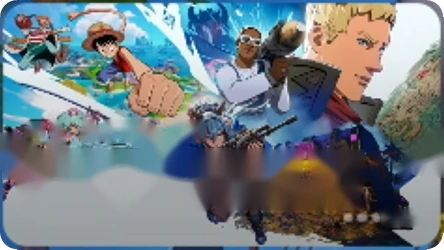
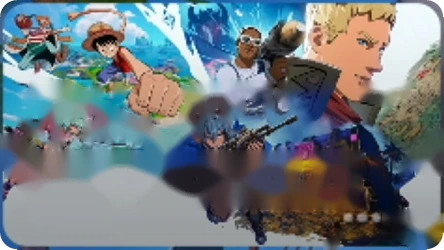
fortnite-app: arreglar play nativo sobre el video, título que se salía y texto de noticias
Claude-Session: https://claude.ai/code/session_0185b3H2m5DGGxwbrDCBuwc9

diff --git a/fortnite-app/index.html b/fortnite-app/index.html
@@ -7,13 +7,14 @@
 :root{--yellow:#f5f21a;--ink:#14141c;--f-display:"Archivo Black",Impact,"Arial Black",sans-serif;--f-ui:"Barlow Condensed","Arial Narrow",sans-serif}
 *{box-sizing:border-box;margin:0}
 html,body{height:100%;overflow:hidden;background:#0a1a33;touch-action:manipulation;-webkit-tap-highlight-color:transparent}
-#bg{position:fixed;inset:0;width:100vw;height:100vh;object-fit:cover;z-index:0}
-#bgfx{position:fixed;inset:0;z-index:0;background:center/cover no-repeat}
-body[data-screen="lobby"] #bgfx{display:none}
+#bgfx{position:fixed;inset:0;z-index:0;background:#0a1a33 center/cover no-repeat}
+body[data-screen="lobby"] #bgfx{background-image:url(assets/lobby_poster.jpg)}
+#bg{position:fixed;inset:0;width:100vw;height:100vh;object-fit:cover;z-index:1;background:transparent;pointer-events:none}
+#bg::-webkit-media-controls,#bg::-webkit-media-controls-panel,#bg::-webkit-media-controls-start-playback-button,#bg::-webkit-media-controls-overlay-play-button{display:none!important;-webkit-appearance:none;opacity:0}
 body:not([data-screen="lobby"]) #bg{visibility:hidden}
 body[data-screen="treasure"] #bgfx{background-image:url(assets/bg_treasure.webp)}
 body[data-screen="shop"] #bgfx{background-image:url(assets/bg_shop.webp)}
-#stage{position:absolute;left:50%;top:50%;width:2000px;height:921px;transform-origin:center;overflow:hidden;z-index:1;user-select:none;color:#fff}
+#stage{position:absolute;left:50%;top:50%;width:2000px;height:921px;transform-origin:center;overflow:hidden;z-index:2;user-select:none;color:#fff}
 .screen{position:absolute;inset:0}.screen[hidden]{display:none}
 .px{position:absolute;display:block;pointer-events:none;-webkit-user-drag:none}
 .px[hidden]{display:none}
@@ -24,8 +25,8 @@ body[data-screen="shop"] #bgfx{background-image:url(assets/bg_shop.webp)}
 .hv,.navlabel,.title,.ink,.bt,.wl,.wn,.wt,.live,.endt,.clubn,.clubs,.tab,.stitle,.lv,.lv2,.newstext,.ttl{font-family:var(--f-display);font-weight:900}
 .nm,.st,.sel,.esrb1,.esrb2,.desc,.cap,.it{font-family:var(--f-ui);font-weight:700}
 .hv,.navlabel,.nm,.st,.it{text-shadow:0 3px 4px rgba(0,0,0,.45)}
-.title{text-align:center;text-transform:uppercase;white-space:normal;color:#fff;letter-spacing:-.5px}
-.sel{color:#2f2410;white-space:normal;line-height:33px}
+.title{text-align:center;text-transform:uppercase;white-space:pre;color:#fff;letter-spacing:-.5px}
+.sel{color:#2f2410;white-space:pre;line-height:33px}
 .ink{color:var(--ink);font-weight:900}
 .it{font-style:italic;font-weight:700}
 .esrb1{font-weight:600}.esrb2{font-weight:600;white-space:normal;line-height:28px;opacity:.92}
@@ -42,11 +43,11 @@ body[data-screen="shop"] #bgfx{background-image:url(assets/bg_shop.webp)}
 .navlabel{color:#fff}.hv{color:#fff}
 .ul{position:absolute;left:164px;top:181px;width:150px;height:4px;background:#ffeab0;border-radius:2px}
 .tab,.t.tab{color:#fff;text-shadow:0 2px 3px rgba(80,40,0,.4)}
-.ttl{font-style:italic;color:#fff;white-space:normal;text-shadow:0 3px 4px rgba(90,45,0,.45)}
+.ttl{font-style:italic;color:#fff;white-space:pre;text-shadow:0 3px 4px rgba(90,45,0,.45)}
 .desc{color:#fff;font-weight:700;text-shadow:0 2px 3px rgba(90,45,0,.5)}
 .wl{color:rgba(255,240,215,.9);text-shadow:0 1px 2px rgba(80,30,0,.5)}.wn{color:rgba(255,240,215,.95);text-shadow:0 2px 3px rgba(80,30,0,.5)}
 .wt{color:#fff;font-style:italic}.live{color:#06180a;font-style:italic}
-.endt{color:#ffe9a8;text-align:center;white-space:normal;text-shadow:0 2px 3px #000}
+.endt{color:#ffe9a8;text-align:center;white-space:pre;text-shadow:0 2px 3px #000}
 .stitle{font-style:italic;color:#fff;text-shadow:0 3px 4px rgba(0,0,40,.35)}
 .clubn{color:#fff}.clubs{color:#fff}.cap{color:#fff;text-shadow:0 2px 3px #000}
 .chatbox{position:absolute;left:1380px;top:520px;width:480px;background:rgba(20,18,26,.82);border-radius:12px;padding:14px 16px;display:flex;flex-direction:column;gap:6px;z-index:20;font:600 26px var(--f-ui);color:#fff}
@@ -57,8 +58,8 @@ body[data-screen="shop"] #bgfx{background-image:url(assets/bg_shop.webp)}
 @keyframes up{from{transform:translate(-50%,0)}to{transform:translate(-50%,-110px);opacity:0}}
 .bubble{transform:translate(-50%,0)}
 </style></head><body data-screen="lobby">
-<video id="bg" autoplay muted loop playsinline src="assets/lobby.mp4"></video>
 <div id="bgfx"></div>
+<video id="bg" autoplay muted loop playsinline webkit-playsinline disablepictureinpicture disableremoteplayback x-webkit-airplay="deny" preload="auto" poster="assets/lobby_poster.jpg" src="assets/lobby.mp4"></video>
 <div id="stage">
 <div id="nav" style="position:absolute;inset:0;z-index:10"><img class="px ic" src="assets/ic_search.webp" alt="" draggable="false" style="left:92.05px;top:34.87px;width:54.39px;height:54.39px;" ><img class="px ic" src="assets/ic_heart.webp" alt="" draggable="false" style="left:190.38px;top:36.96px;width:64.85px;height:55.09px;" ><img class="px ic tab" src="assets/ic_play.webp" alt="" draggable="false" style="left:298.47px;top:32.78px;width:57.88px;height:57.88px;" data-go="lobby" id="ic-lobby"><img class="px ic tab" src="assets/ic_chest.webp" alt="" draggable="false" style="left:397.49px;top:32.78px;width:64.16px;height:57.88px;" data-go="treasure" id="ic-treasure"><img class="px ic tab" src="assets/ic_cart.webp" alt="" draggable="false" style="left:509.07px;top:41.14px;width:50.21px;height:46.03px;" data-go="shop" id="ic-shop"><img class="px ic" src="assets/ic_shirt.webp" alt="" draggable="false" style="left:613.67px;top:34.87px;width:50.91px;height:54.39px;" ><img class="px ic" src="assets/ic_star.webp" alt="" draggable="false" style="left:713.39px;top:29.29px;width:67.64px;height:57.88px;" ><img class="px ic" src="assets/ic_excl.webp" alt="" draggable="false" style="left:820.08px;top:33.47px;width:48.81px;height:57.18px;" ><img class="px ic" src="assets/ic_trophy.webp" alt="" draggable="false" style="left:920.50px;top:36.96px;width:57.18px;height:50.91px;" ><img class="px ic" src="assets/ic_shield.webp" alt="" draggable="false" style="left:1027.89px;top:29.29px;width:62.76px;height:61.37px;" ><img class="px ic" src="assets/ic_vbucks.webp" alt="" draggable="false" style="left:1126.92px;top:33.47px;width:57.88px;height:57.18px;" ><img class="px tile" src="assets/tile_lobby.webp" alt="" draggable="false" style="left:276.85px;top:25.10px;width:99.72px;height:74.62px;" data-tile="lobby" hidden><img class="px tile" src="assets/tile_treasure.webp" alt="" draggable="false" style="left:377.96px;top:24.41px;width:106.00px;height:74.62px;" data-tile="treasure" hidden><img class="px tile" src="assets/tile_shop.webp" alt="" draggable="false" style="left:485.36px;top:25.10px;width:99.72px;height:74.62px;" data-tile="shop" hidden><div class="t navlabel" data-t="nav.labels.lobby" data-lab="lobby" style="left:326.7px;top:121px;font-size:25px;transform:translate(-50%,-50%)" hidden></div><div class="t navlabel" data-t="nav.labels.treasure" data-lab="treasure" style="left:431.0px;top:121px;font-size:25px;transform:translate(-50%,-50%)" hidden></div><div class="t navlabel" data-t="nav.labels.shop" data-lab="shop" style="left:535.2px;top:121px;font-size:25px;transform:translate(-50%,-50%)" hidden></div><div class="t hv" data-t="nav.vbucks" style="left:1188px;top:60px;font-size:31px;transform:translateY(-50%);"></div><img class="px " src="assets/avatar.webp" alt="" draggable="false" style="left:1776.15px;top:25.80px;width:94.14px;height:94.14px;" ></div>
 <div id="screens" style="position:absolute;inset:0;z-index:2">
@@ -67,27 +68,27 @@ body[data-screen="shop"] #bgfx{background-image:url(assets/bg_shop.webp)}
  <img id="character" alt="" hidden>
  <div class="newsbox"><img class="px news" src="assets/news_arsenal.webp" alt="" draggable="false" style="left:62.06px;top:145.75px;width:309.62px;height:174.34px;" data-i="0"><img class="px news" src="assets/news_pase.webp" alt="" draggable="false" style="left:62.06px;top:145.75px;width:309.62px;height:174.34px;" data-i="1"><img class="px news" src="assets/news_recibe.webp" alt="" draggable="false" style="left:62.06px;top:145.75px;width:309.62px;height:174.34px;" data-i="2"><img class="px news" src="assets/news_cazatesoros.webp" alt="" draggable="false" style="left:62.06px;top:145.75px;width:309.62px;height:174.34px;" data-i="3">
   <div class="t newstext" id="newstext" style="left:78px;top:246px;width:250px;font-size:22px"></div><div class="dots" id="dots"></div></div>
- <img class="px " src="assets/hex.webp" alt="" draggable="false" style="left:867.50px;top:126.22px;width:41.14px;height:42.54px;" ><div class="t it" data-t="player.partyIndex" style="left:872px;top:160px;font-size:20px;transform:translateY(-50%);"></div><div class="t nm" data-t="player.name" style="left:914px;top:146px;font-size:40px;transform:translateY(-50%);"></div><i class="phone"></i><div class="t st" data-t="player.status" style="left:913px;top:197px;font-size:28px;transform:translateY(-50%);opacity:.95"></div>
+ <img class="px " src="assets/hex.webp" alt="" draggable="false" style="left:867.50px;top:126.22px;width:41.14px;height:42.54px;" ><div class="t it" data-t="player.partyIndex" style="left:872px;top:160px;font-size:20px;transform:translateY(-50%);"></div><div class="t nm" data-t="player.name" data-maxw="185" style="left:914px;top:146px;font-size:40px;transform:translateY(-50%);width:185px;"></div><i class="phone"></i><div class="t st" data-t="player.status" style="left:913px;top:197px;font-size:28px;transform:translateY(-50%);opacity:.95"></div>
  <img class="px" src="assets/slot.webp" alt="" style="left:765.0px;top:506.3px;width:48.1px;height:47.4px"><img class="px" src="assets/slot.webp" alt="" style="left:1157.9px;top:505.3px;width:48.1px;height:47.4px"><img class="px" src="assets/slot.webp" alt="" style="left:1338.9px;top:497.3px;width:48.1px;height:47.4px">
- <img class="px " src="assets/mode_panel.webp" alt="" draggable="false" style="left:59.97px;top:410.74px;width:308.23px;height:370.99px;" ><div class="t title" data-t="mode.title" style="left:214px;top:472px;font-size:64px;transform:translate(-50%,-50%);width:250px;line-height:59px;"></div>
- <img class="px " src="assets/mode_select.webp" alt="" draggable="false" style="left:76.01px;top:592.75px;width:277.55px;height:85.08px;" ><div class="t sel" data-t="mode.selector" style="left:123px;top:633px;font-size:29px;transform:translateY(-50%);width:230px;"></div>
- <img class="px btn" src="assets/mode_play.webp" alt="" draggable="false" style="left:76.01px;top:692.47px;width:277.55px;height:73.22px;" data-act="ready"><div class="t ink" data-t="mode.cta" style="left:214px;top:712px;font-size:41px;transform:translate(-50%,-50%);"></div><div class="t ink" data-t="mode.sub" style="left:214px;top:751px;font-size:25px;transform:translate(-50%,-50%);"></div>
- <img class="px " src="assets/esrb_panel.webp" alt="" draggable="false" style="left:370.29px;top:689.68px;width:457.46px;height:180.61px;" ><img class="px " src="assets/esrb_icon.webp" alt="" draggable="false" style="left:391.91px;top:749.65px;width:59.27px;height:59.27px;" ><div class="t esrb1" data-t="esrb.rating" style="left:471px;top:716px;font-size:29px;transform:translateY(-50%);"></div><div class="t esrb2" data-t="esrb.content" style="left:471px;top:761px;font-size:22px;transform:translateY(-50%);width:345px;"></div><div class="t esrb2" data-t="esrb.interactive" style="left:471px;top:829px;font-size:22px;transform:translateY(-50%);width:345px;"></div>
+ <img class="px " src="assets/mode_panel.webp" alt="" draggable="false" style="left:59.97px;top:410.74px;width:308.23px;height:370.99px;" ><div class="t title" data-t="mode.title" data-maxw="250" style="left:214px;top:472px;font-size:64px;transform:translate(-50%,-50%);width:250px;line-height:59px;"></div>
+ <img class="px " src="assets/mode_select.webp" alt="" draggable="false" style="left:76.01px;top:592.75px;width:277.55px;height:85.08px;" ><div class="t sel" data-t="mode.selector" data-maxw="230" style="left:123px;top:633px;font-size:29px;transform:translateY(-50%);width:230px;"></div>
+ <img class="px btn" src="assets/mode_play.webp" alt="" draggable="false" style="left:76.01px;top:692.47px;width:277.55px;height:73.22px;" data-act="ready"><div class="t ink" data-t="mode.cta" data-maxw="250" style="left:214px;top:712px;font-size:41px;transform:translate(-50%,-50%);width:250px;"></div><div class="t ink" data-t="mode.sub" data-maxw="250" style="left:214px;top:751px;font-size:25px;transform:translate(-50%,-50%);width:250px;"></div>
+ <img class="px " src="assets/esrb_panel.webp" alt="" draggable="false" style="left:370.29px;top:689.68px;width:457.46px;height:180.61px;" ><img class="px " src="assets/esrb_icon.webp" alt="" draggable="false" style="left:391.91px;top:749.65px;width:59.27px;height:59.27px;" ><div class="t esrb1" data-t="esrb.rating" style="left:471px;top:716px;font-size:29px;transform:translateY(-50%);"></div><div class="t esrb2" data-t="esrb.content" data-maxw="345" style="left:471px;top:761px;font-size:22px;transform:translateY(-50%);width:345px;"></div><div class="t esrb2" data-t="esrb.interactive" data-maxw="345" style="left:471px;top:829px;font-size:22px;transform:translateY(-50%);width:345px;"></div>
  <img class="px " src="assets/lvl_tile.webp" alt="" draggable="false" style="left:1585.08px;top:684.80px;width:89.96px;height:93.44px;" ><div class="t lv" data-t="player.levelLabel" style="left:1630px;top:716px;font-size:18px;transform:translate(-50%,-50%);"></div><div class="t lv2" data-t="player.level" style="left:1630px;top:742px;font-size:31px;transform:translate(-50%,-50%);"></div><img class="px " src="assets/rank_tile.webp" alt="" draggable="false" style="left:1679.22px;top:681.31px;width:86.47px;height:87.87px;" ><img class="px " src="assets/music_tile.webp" alt="" draggable="false" style="left:1778.24px;top:684.80px;width:83.68px;height:87.17px;" >
- <img class="px " src="assets/lobby_b_mic.webp" alt="" draggable="false" style="left:1336.12px;top:797.77px;width:71.83px;height:70.43px;" ><img class="px btn" src="assets/lobby_b_chat.webp" alt="" draggable="false" style="left:1423.99px;top:797.77px;width:129.71px;height:70.43px;" data-act="chat"><div class="t fill bt" data-t="bar.chat" style="left:1424.0px;top:797.8px;width:129.7px;height:70.4px;font-size:27px;"></div><img class="px btn" src="assets/lobby_b_emote.webp" alt="" draggable="false" style="left:1559.97px;top:797.77px;width:170.15px;height:70.43px;" data-act="emote"><div class="t fill bt" data-t="bar.emote" style="left:1560.0px;top:797.8px;width:170.2px;height:70.4px;font-size:27px;"></div><img class="px " src="assets/lobby_b_back.webp" alt="" draggable="false" style="left:1735.70px;top:797.77px;width:132.50px;height:70.43px;" ><div class="t fill bt" data-t="bar.back" style="left:1735.7px;top:797.8px;width:132.5px;height:70.4px;font-size:27px;"></div>
+ <img class="px " src="assets/lobby_b_mic.webp" alt="" draggable="false" style="left:1336.12px;top:797.77px;width:71.83px;height:70.43px;" ><img class="px btn" src="assets/lobby_b_chat.webp" alt="" draggable="false" style="left:1423.99px;top:797.77px;width:129.71px;height:70.43px;" data-act="chat"><div class="t fill bt" data-t="bar.chat" data-maxw="114" style="left:1424.0px;top:797.8px;width:129.7px;height:70.4px;font-size:27px;"></div><img class="px btn" src="assets/lobby_b_emote.webp" alt="" draggable="false" style="left:1559.97px;top:797.77px;width:170.15px;height:70.43px;" data-act="emote"><div class="t fill bt" data-t="bar.emote" data-maxw="154" style="left:1560.0px;top:797.8px;width:170.2px;height:70.4px;font-size:27px;"></div><img class="px " src="assets/lobby_b_back.webp" alt="" draggable="false" style="left:1735.70px;top:797.77px;width:132.50px;height:70.43px;" ><div class="t fill bt" data-t="bar.back" data-maxw="116" style="left:1735.7px;top:797.8px;width:132.5px;height:70.4px;font-size:27px;"></div>
 </section>
 <section class="screen" data-screen="treasure" hidden>
  <div class="t tab" data-t="treasure.tab" style="left:167px;top:164px;font-size:26px;transform:translateY(-50%);"></div><div class="ul"></div>
- <div class="t ttl" data-t="treasure.title" style="left:180px;top:231px;font-size:42px;transform:translateY(-50%);width:560px;line-height:44px;"></div>
- <div class="t desc" data-t="treasure.desc" style="left:172px;top:345px;font-size:23px;transform:translateY(-50%);width:420px;line-height:23.5px;white-space:pre-line"></div>
- <img class="px card" src="assets/week1.webp" alt="" draggable="false" style="left:430.26px;top:578.10px;width:115.76px;height:119.94px;" data-card><div class="t wl" data-t="treasure.weekLabel" style="left:538.0251046025105px;top:597.1032078103208px;font-size:18px;transform:translate(-100%,-50%);"></div><div class="t wn" data-t="treasure.weeks.0.n" style="left:534.0251046025105px;top:626.1032078103208px;font-size:42px;transform:translate(-100%,-50%);"></div><img class="px card" src="assets/week2.webp" alt="" draggable="false" style="left:711.99px;top:334.03px;width:113.67px;height:119.94px;" data-card><div class="t wl" data-t="treasure.weekLabel" style="left:817.6624825662483px;top:353.03068340306834px;font-size:18px;transform:translate(-100%,-50%);"></div><div class="t wn" data-t="treasure.weeks.1.n" style="left:813.6624825662483px;top:382.03068340306834px;font-size:42px;transform:translate(-100%,-50%);"></div><div class="t wt" data-t="treasure.weeks.1.time" style="left:768.8284518828452px;top:440.97489539748955px;font-size:17px;transform:translate(-50%,-50%);"></div><img class="px card" src="assets/week3.webp" alt="" draggable="false" style="left:910.04px;top:546.03px;width:113.67px;height:119.94px;" data-card><div class="t wl" data-t="treasure.weekLabel" style="left:1015.7099023709902px;top:565.0251046025105px;font-size:18px;transform:translate(-100%,-50%);"></div><div class="t wn" data-t="treasure.weeks.2.n" style="left:1011.7099023709902px;top:594.0251046025105px;font-size:42px;transform:translate(-100%,-50%);"></div><div class="t wt" data-t="treasure.weeks.2.time" style="left:966.8758716875872px;top:652.9693165969318px;font-size:17px;transform:translate(-50%,-50%);"></div><img class="px card" src="assets/week4.webp" alt="" draggable="false" style="left:1126.22px;top:336.82px;width:113.67px;height:122.04px;" data-card><div class="t wl" data-t="treasure.weekLabel" style="left:1231.8884239888425px;top:355.8200836820084px;font-size:18px;transform:translate(-100%,-50%);"></div><div class="t wn" data-t="treasure.weeks.3.n" style="left:1227.8884239888425px;top:384.8200836820084px;font-size:42px;transform:translate(-100%,-50%);"></div><div class="t wt" data-t="treasure.weeks.3.time" style="left:1183.0543933054396px;top:445.8563458856346px;font-size:17px;transform:translate(-50%,-50%);"></div><img class="px card" src="assets/week5.webp" alt="" draggable="false" style="left:1324.27px;top:626.92px;width:113.67px;height:119.94px;" data-card><div class="t wl" data-t="treasure.weekLabel" style="left:1429.9358437935844px;top:645.9177126917713px;font-size:18px;transform:translate(-100%,-50%);"></div><div class="t wn" data-t="treasure.weeks.4.n" style="left:1425.9358437935844px;top:674.9177126917713px;font-size:42px;transform:translate(-100%,-50%);"></div><div class="t wt" data-t="treasure.weeks.4.time" style="left:1381.1018131101814px;top:733.8619246861924px;font-size:17px;transform:translate(-50%,-50%);"></div><img class="px " src="assets/live.webp" alt="" draggable="false" style="left:437.94px;top:664.57px;width:104.60px;height:47.42px;" ><div class="t fill live" data-t="treasure.live" style="left:437.9px;top:664.6px;width:104.6px;height:47.4px;font-size:38px;"></div><img class="px card" src="assets/week_end.webp" alt="" draggable="false" style="left:1506.28px;top:230.13px;width:205.72px;height:228.03px;" data-card><div class="t endt" data-t="treasure.endTitle" style="left:1609.1352859135286px;top:373.1255230125523px;font-size:26px;transform:translate(-50%,-50%);width:191.71827057182708px;line-height:25px"></div><div class="t wt" data-t="treasure.end.time" style="left:1609.1352859135286px;top:436.15899581589963px;font-size:19px;transform:translate(-50%,-50%);"></div>
- <img class="px " src="assets/treasure_b_mic.webp" alt="" draggable="false" style="left:1649.93px;top:799.86px;width:69.04px;height:69.04px;" ><img class="px btn" src="assets/treasure_b_chat.webp" alt="" draggable="false" style="left:1735.70px;top:797.77px;width:129.71px;height:72.52px;" data-act="chat"><div class="t fill bt tr" data-t="bar.chat" style="left:1735.7px;top:797.8px;width:129.7px;height:72.5px;font-size:27px;"></div>
+ <div class="t ttl" data-t="treasure.title" data-maxw="560" style="left:180px;top:231px;font-size:42px;transform:translateY(-50%);width:560px;line-height:44px;"></div>
+ <div class="t desc" data-t="treasure.desc" data-maxw="420" style="left:172px;top:345px;font-size:23px;transform:translateY(-50%);width:420px;line-height:23.5px;white-space:pre-line"></div>
+ <img class="px card" src="assets/week1.webp" alt="" draggable="false" style="left:430.26px;top:578.10px;width:115.76px;height:119.94px;" data-card><div class="t wl" data-t="treasure.weekLabel" style="left:538.0251046025105px;top:597.1032078103208px;font-size:18px;transform:translate(-100%,-50%);"></div><div class="t wn" data-t="treasure.weeks.0.n" style="left:534.0251046025105px;top:626.1032078103208px;font-size:42px;transform:translate(-100%,-50%);"></div><img class="px card" src="assets/week2.webp" alt="" draggable="false" style="left:711.99px;top:334.03px;width:113.67px;height:119.94px;" data-card><div class="t wl" data-t="treasure.weekLabel" style="left:817.6624825662483px;top:353.03068340306834px;font-size:18px;transform:translate(-100%,-50%);"></div><div class="t wn" data-t="treasure.weeks.1.n" style="left:813.6624825662483px;top:382.03068340306834px;font-size:42px;transform:translate(-100%,-50%);"></div><div class="t wt" data-t="treasure.weeks.1.time" style="left:768.8284518828452px;top:440.97489539748955px;font-size:17px;transform:translate(-50%,-50%);"></div><img class="px card" src="assets/week3.webp" alt="" draggable="false" style="left:910.04px;top:546.03px;width:113.67px;height:119.94px;" data-card><div class="t wl" data-t="treasure.weekLabel" style="left:1015.7099023709902px;top:565.0251046025105px;font-size:18px;transform:translate(-100%,-50%);"></div><div class="t wn" data-t="treasure.weeks.2.n" style="left:1011.7099023709902px;top:594.0251046025105px;font-size:42px;transform:translate(-100%,-50%);"></div><div class="t wt" data-t="treasure.weeks.2.time" style="left:966.8758716875872px;top:652.9693165969318px;font-size:17px;transform:translate(-50%,-50%);"></div><img class="px card" src="assets/week4.webp" alt="" draggable="false" style="left:1126.22px;top:336.82px;width:113.67px;height:122.04px;" data-card><div class="t wl" data-t="treasure.weekLabel" style="left:1231.8884239888425px;top:355.8200836820084px;font-size:18px;transform:translate(-100%,-50%);"></div><div class="t wn" data-t="treasure.weeks.3.n" style="left:1227.8884239888425px;top:384.8200836820084px;font-size:42px;transform:translate(-100%,-50%);"></div><div class="t wt" data-t="treasure.weeks.3.time" style="left:1183.0543933054396px;top:445.8563458856346px;font-size:17px;transform:translate(-50%,-50%);"></div><img class="px card" src="assets/week5.webp" alt="" draggable="false" style="left:1324.27px;top:626.92px;width:113.67px;height:119.94px;" data-card><div class="t wl" data-t="treasure.weekLabel" style="left:1429.9358437935844px;top:645.9177126917713px;font-size:18px;transform:translate(-100%,-50%);"></div><div class="t wn" data-t="treasure.weeks.4.n" style="left:1425.9358437935844px;top:674.9177126917713px;font-size:42px;transform:translate(-100%,-50%);"></div><div class="t wt" data-t="treasure.weeks.4.time" style="left:1381.1018131101814px;top:733.8619246861924px;font-size:17px;transform:translate(-50%,-50%);"></div><img class="px " src="assets/live.webp" alt="" draggable="false" style="left:437.94px;top:664.57px;width:104.60px;height:47.42px;" ><div class="t fill live" data-t="treasure.live" data-maxw="89" style="left:437.9px;top:664.6px;width:104.6px;height:47.4px;font-size:38px;"></div><img class="px card" src="assets/week_end.webp" alt="" draggable="false" style="left:1506.28px;top:230.13px;width:205.72px;height:228.03px;" data-card><div class="t endt" data-t="treasure.endTitle" data-maxw="191.71827057182708" style="left:1609.1352859135286px;top:373.1255230125523px;font-size:26px;transform:translate(-50%,-50%);width:191.71827057182708px;line-height:25px"></div><div class="t wt" data-t="treasure.end.time" style="left:1609.1352859135286px;top:436.15899581589963px;font-size:19px;transform:translate(-50%,-50%);"></div>
+ <img class="px " src="assets/treasure_b_mic.webp" alt="" draggable="false" style="left:1649.93px;top:799.86px;width:69.04px;height:69.04px;" ><img class="px btn" src="assets/treasure_b_chat.webp" alt="" draggable="false" style="left:1735.70px;top:797.77px;width:129.71px;height:72.52px;" data-act="chat"><div class="t fill bt tr" data-t="bar.chat" data-maxw="114" style="left:1735.7px;top:797.8px;width:129.7px;height:72.5px;font-size:27px;"></div>
 </section>
 <section class="screen" data-screen="shop" hidden>
  <img class="px " src="assets/shop_filter.webp" alt="" draggable="false" style="left:217.57px;top:147.14px;width:82.29px;height:79.50px;" ><img class="px " src="assets/shop_rail.webp" alt="" draggable="false" style="left:214.78px;top:248.26px;width:85.08px;height:639.47px;" ><div class="t stitle" data-t="shop.title" style="left:342px;top:168px;font-size:58px;transform:translateY(-50%);"></div>
  <img class="px " src="assets/shop_club.webp" alt="" draggable="false" style="left:340.31px;top:308.93px;width:1019.53px;height:292.89px;" ><div class="t clubn" data-t="shop.club.name" style="left:850px;top:437px;font-size:60px;transform:translate(-50%,-50%);"></div><div class="t clubs" data-t="shop.club.sub" style="left:850px;top:466px;font-size:17px;transform:translate(-50%,-50%);"></div><div class="t cap" data-t="shop.club.caption" style="left:351px;top:549px;font-size:27px;transform:translateY(-50%);"></div><div class="t cap" data-t="shop.club.cta" style="left:351px;top:581px;font-size:24px;transform:translateY(-50%);"></div><div class="t clubn" data-t="shop.club.plus" style="left:1343px;top:586px;font-size:26px;transform:translate(-50%,-50%);"></div>
  <img class="px " src="assets/shop_pass.webp" alt="" draggable="false" style="left:340.31px;top:659.00px;width:1019.53px;height:261.51px;" >
- <img class="px " src="assets/shop_b_support.webp" alt="" draggable="false" style="left:765.69px;top:797.77px;width:439.33px;height:72.52px;" ><div class="t fill bt bl" data-t="shop.buttons.creator" style="left:765.7px;top:797.8px;width:439.3px;height:72.5px;font-size:27px;"></div><img class="px " src="assets/shop_b_about.webp" alt="" draggable="false" style="left:1223.15px;top:797.77px;width:226.64px;height:72.52px;" ><div class="t fill bt bl" data-t="shop.buttons.about" style="left:1223.2px;top:797.8px;width:226.6px;height:72.5px;font-size:27px;"></div><img class="px " src="assets/shop_b_select.webp" alt="" draggable="false" style="left:1469.32px;top:800.56px;width:160.39px;height:66.95px;" ><div class="t fill bt ink" data-t="shop.buttons.select" style="left:1469.3px;top:800.6px;width:160.4px;height:66.9px;font-size:27px;"></div><img class="px " src="assets/shop_b_mic.webp" alt="" draggable="false" style="left:1647.84px;top:797.77px;width:71.13px;height:72.52px;" ><img class="px btn" src="assets/shop_b_chat.webp" alt="" draggable="false" style="left:1735.70px;top:797.77px;width:132.50px;height:72.52px;" data-act="chat"><div class="t fill bt bl" data-t="bar.chat" style="left:1735.7px;top:797.8px;width:132.5px;height:72.5px;font-size:27px;"></div>
+ <img class="px " src="assets/shop_b_support.webp" alt="" draggable="false" style="left:765.69px;top:797.77px;width:439.33px;height:72.52px;" ><div class="t fill bt bl" data-t="shop.buttons.creator" data-maxw="423" style="left:765.7px;top:797.8px;width:439.3px;height:72.5px;font-size:27px;"></div><img class="px " src="assets/shop_b_about.webp" alt="" draggable="false" style="left:1223.15px;top:797.77px;width:226.64px;height:72.52px;" ><div class="t fill bt bl" data-t="shop.buttons.about" data-maxw="211" style="left:1223.2px;top:797.8px;width:226.6px;height:72.5px;font-size:27px;"></div><img class="px " src="assets/shop_b_select.webp" alt="" draggable="false" style="left:1469.32px;top:800.56px;width:160.39px;height:66.95px;" ><div class="t fill bt ink" data-t="shop.buttons.select" data-maxw="144" style="left:1469.3px;top:800.6px;width:160.4px;height:66.9px;font-size:27px;"></div><img class="px " src="assets/shop_b_mic.webp" alt="" draggable="false" style="left:1647.84px;top:797.77px;width:71.13px;height:72.52px;" ><img class="px btn" src="assets/shop_b_chat.webp" alt="" draggable="false" style="left:1735.70px;top:797.77px;width:132.50px;height:72.52px;" data-act="chat"><div class="t fill bt bl" data-t="bar.chat" data-maxw="116" style="left:1735.7px;top:797.8px;width:132.5px;height:72.5px;font-size:27px;"></div>
 </section></div>
 <div class="chatbox" id="chat" hidden><div class="log" id="chatlog"></div><input id="chatin" type="text" maxlength="80" autocomplete="off"></div>
 </div>
@@ -96,7 +97,7 @@ body[data-screen="shop"] #bgfx{background-image:url(assets/bg_shop.webp)}
 window.TEXTS = {
   nav: { vbucks: "200", labels: { lobby: "PLAY", treasure: "TREASURE", shop: "SHOP" } },
   player: { name: "CarlitosTM11", status: "Not Ready", statusReady: "Ready", levelLabel: "LVL", level: "1", partyIndex: "1" },
-  mode: { title: "BATTLE ROYALE", selector: "Construcción,\nModo...", cta: "PLAY", sub: "RANK: PENDING" },
+  mode: { title: "BATTLE\nROYALE", selector: "Construcción,\nModo...", cta: "PLAY", sub: "RANK: PENDING" },
   esrb: { rating: "Teen", content: "Violence, Suggestive Themes, Lyrics, Animated Blood", interactive: "Users Interact, In-Game Purchases" },
   news: ["ARSENAL DE LOS SOMBREROS DE PAJA", "OBTÉN EL PASE DE BATALLA", "RECIBE NOTIFICACIONES EN TU DISPOSITIVO MÓVIL", "CAZATESOROS YA ESTÁ DISPONIBLE"],
   treasure: {
@@ -120,6 +121,19 @@ const T=TEXTS,$=s=>document.querySelector(s),$$=s=>[...document.querySelectorAll
 const get=p=>p.split(".").reduce((o,k)=>o&&o[k],T);
 $$("[data-t]").forEach(el=>{const v=get(el.dataset.t)??"";el.textContent=v;if(String(v).includes("\n")){el.style.whiteSpace="pre"}});
 if(T.characterImage){const i=$("#character");i.src=T.characterImage;i.hidden=false}
+/* ajusta cada texto de una sola línea al ancho disponible */
+function fitAll(){$$("[data-maxw]").forEach(el=>{const ws=getComputedStyle(el).whiteSpace;if(ws!=="nowrap"&&ws!=="pre")return;
+  const max=+el.dataset.maxw;if(!el.dataset.fs)el.dataset.fs=parseFloat(el.style.fontSize);let fs=+el.dataset.fs;el.style.fontSize=fs+"px";
+  const wide=()=>el.style.width?Math.max(...[...el.childNodes].map(()=>0),measure(el)):el.scrollWidth;
+  let n=0;while(measure(el)>max&&fs>10&&n++<60){fs-=1;el.style.fontSize=fs+"px"}})}
+function measure(el){const c=el.cloneNode(true);c.style.cssText+=";position:absolute;visibility:hidden;width:auto;left:0;top:0;transform:none;display:inline-block";st.appendChild(c);const w=c.getBoundingClientRect().width/ (st.getBoundingClientRect().width/2000);c.remove();return w}
+if(document.fonts&&document.fonts.ready)document.fonts.ready.then(fitAll);fitAll();addEventListener("load",fitAll);
+/* video de fondo: arrancar aunque Safari bloquee el autoplay */
+const bgv=$("#bg");bgv.muted=true;bgv.defaultMuted=true;bgv.controls=false;
+function tryPlay(){const p=bgv.play();if(p&&p.catch)p.catch(()=>{})}
+tryPlay();bgv.addEventListener("loadeddata",tryPlay);
+["pointerdown","touchstart","click","keydown"].forEach(ev=>addEventListener(ev,tryPlay,{passive:true}));
+document.addEventListener("visibilitychange",()=>{if(!document.hidden)tryPlay()});
 /* estado Ready */
 let ready=false;const status=$('[data-t="player.status"]');
 /* navegación entre pantallas */
@@ -129,7 +143,7 @@ function go(s){
   $$("[data-tile]").forEach(x=>x.hidden=x.dataset.tile!==s);
   $$("[data-lab]").forEach(x=>x.hidden=x.dataset.lab!==s);
   $$(".ic.tab").forEach(x=>x.style.visibility=x.dataset.go===s?"hidden":"visible");
-  if(s==="lobby")$("#bg").play&&$("#bg").play().catch(()=>{});
+  if(s==="lobby")tryPlay();
 }
 $$(".ic.tab").forEach(t=>t.addEventListener("pointerdown",e=>{e.preventDefault();go(t.dataset.go)}));
 /* acciones */
